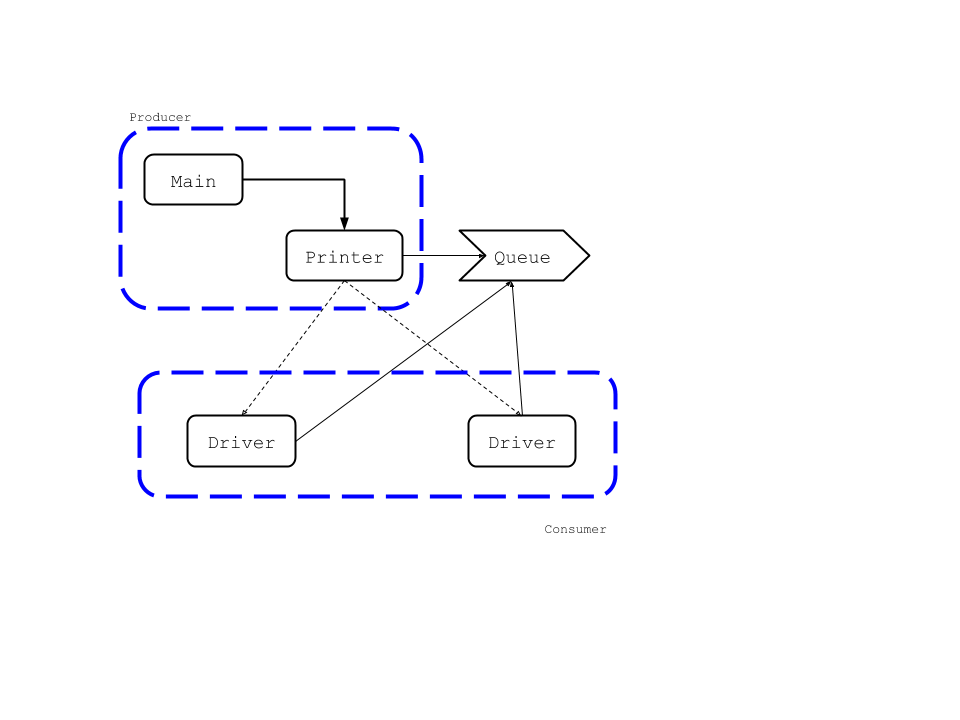
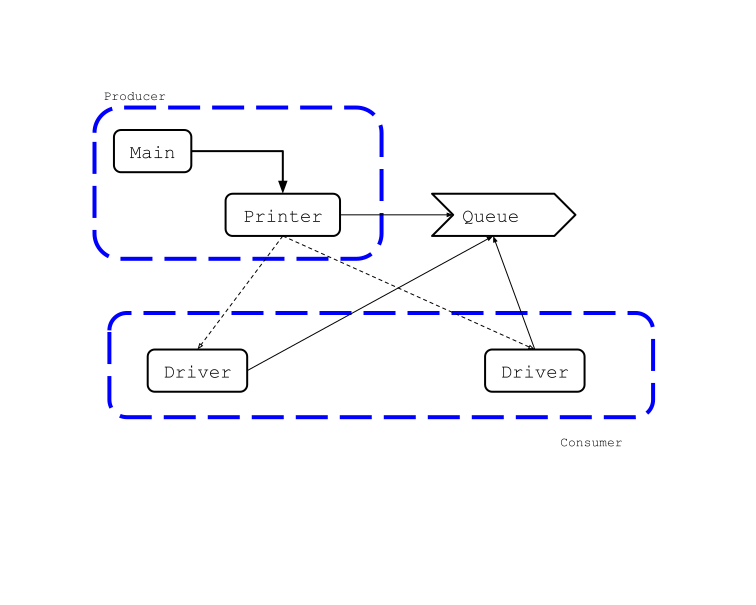
Convertite immagini in png, aggiunto script per conversione automatica

diff --git a/README.md b/README.md
@@ -8,7 +8,15 @@ Sicuramente gli appunti contengono errori. Qualcuno contribuisca negli anni futu
 ## Genarazione del PDF
 Requisiti:
 
-- pandoc
-- MiKTeX (forse va bene anche TexLive)
+- *pandoc*
+- *MiKTeX* o *TexLive* installati in locale
 
-Aprire un terminale nella directory `appunti-APP` ed eseguire il comando `./build.sh`
+Aprire un terminale nella directory `Appunti-APP` ed eseguire il comando `./build.sh`
+
+
+### Conversione svg in png
+
+Nella cartella `imgs/` dovrebbero essere caricate entrambe le versioni per le immagini caricate dal professore come svg. Qualora la build desse problemi di file png non trovato è probabile che sia caricata solo la versione png. Lanciare dunque 'svg\_to\_png.sh'.
+Questo richiede avere installato *inkscape* in locale. Se la repo è mantenuta come dio comanda questo paragrafo dovrebbe essere inutile per i non manutentori/caricatori.
+
+

diff --git a/doc_info.md b/doc_info.md
@@ -4,12 +4,12 @@ author: [Luca Veronese]
 date: ""
 subject: "Altri Paradigmi di Programmazione"
 keywords: [Java, Programmazione Concorrente, Programmazione Distribuita]
-subtitle: "Versione libro delle slides del corso di A.P.P., con inserimento di errori. \nSe avete un minimo di dignità leggete le slides del prof piuttosto che sta roba."
+subtitle: "Versione libro delle slides del corso di A.P.P.,  non ufficiale."
 lang: "it"
 titlepage: true
 toc: true
-header-left: "\hspace{1cm}"
-header-right: "\hspace{1cm}"
-footer-left: "\\rightmark"
+toc-own-page: true
+header-left: "\\hspace{1cm}"
+footer-left: "\\sectionmark"
 footer-right: "\\thepage"
 ...
